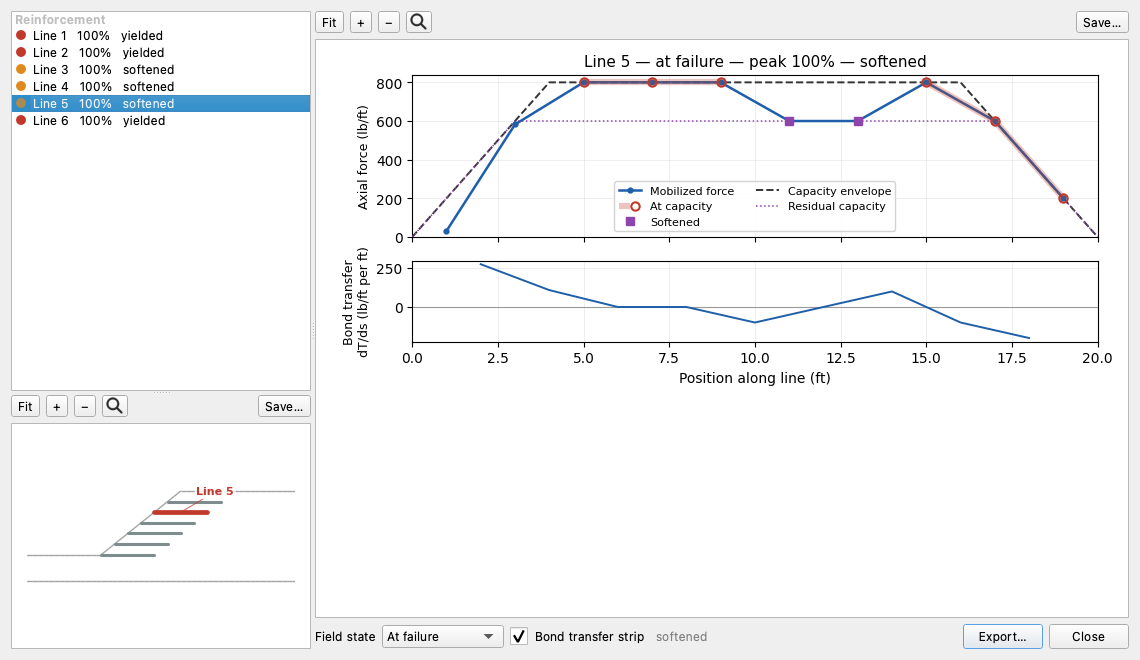
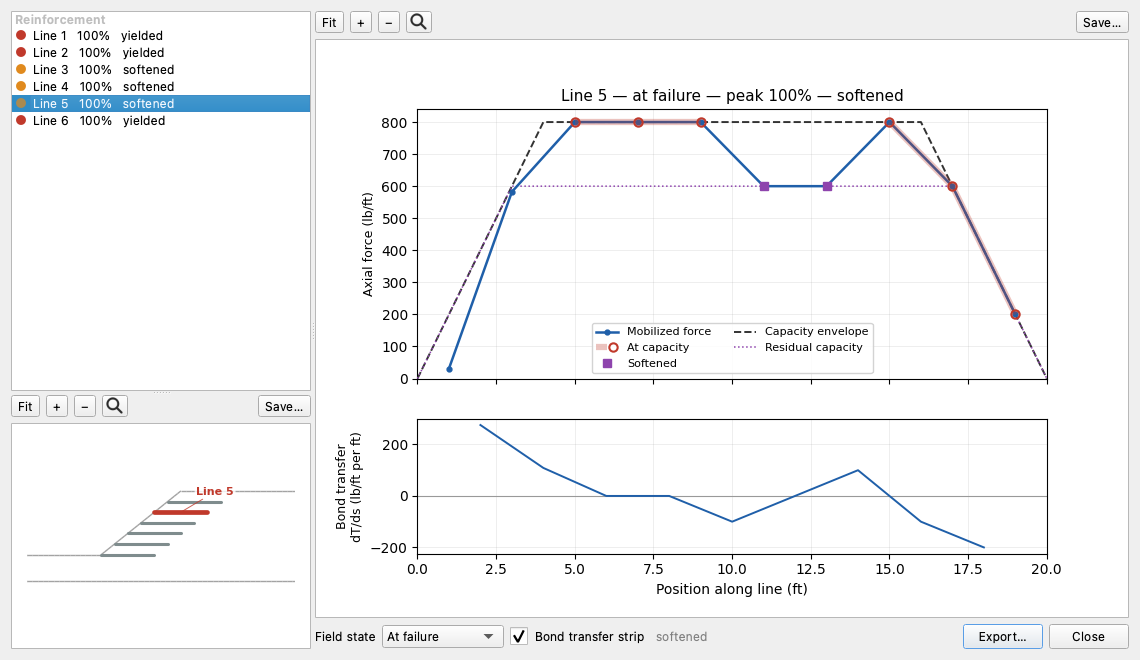
studio(1D details): the profile panels fill the window; the printed-strip height rule stays for the report page
plot_detail gains fit_height (default True: the height follows the width so a
report page spends a strip per member). The 1D Details dialog passes False —
its canvas already hands in a figure sized to the viewport, and the strip rule
was shrinking it back, leaving the bottom half of the window empty. FEM-2's
1D Details screenshot regenerated through the shipped pipeline.

Claude-Session: https://claude.ai/code/session_01XjjT2aBxw8gY7EFdpoUcpj

diff --git a/xslope/plot_fem_details.py b/xslope/plot_fem_details.py
@@ -267,7 +267,7 @@ def _title(profile):
 # reinforcement
 # --------------------------------------------------------------------------
 
-def plot_reinforcement_detail(profile, fig=None, show_bond=True):
+def plot_reinforcement_detail(profile, fig=None, show_bond=True, fit_height=True):
     """Draw the detail figure for one reinforcement line onto ``fig``.
 
     Upper panel: mobilized axial force along the bar, over the dashed capacity
@@ -437,7 +437,9 @@ def plot_reinforcement_detail(profile, fig=None, show_bond=True):
     else:
         ax.set_xlabel(_axis_label("Position along line", u.get("length")))
 
-    _fit_stacked_panels(fig, DETAIL_BANDS if has_bond else DETAIL_BANDS[:1])
+    if fit_height:
+
+        _fit_stacked_panels(fig, DETAIL_BANDS if has_bond else DETAIL_BANDS[:1])
     return fig
 
 
@@ -445,7 +447,7 @@ def plot_reinforcement_detail(profile, fig=None, show_bond=True):
 # piles
 # --------------------------------------------------------------------------
 
-def plot_pile_detail(profile, fig=None):
+def plot_pile_detail(profile, fig=None, fit_height=True):
     """Draw the detail figure for one pile onto ``fig``.
 
     Four panels sharing one depth axis, pile head at the top: lateral
@@ -736,8 +738,14 @@ def plot_member_map(fem_data, slope_data=None, kind="reinforcement",
     return fig
 
 
-def plot_detail(profile, fig=None, **kwargs):
-    """Dispatch to the figure builder for this profile's member kind."""
+def plot_detail(profile, fig=None, fit_height=True, **kwargs):
+    """Dispatch to the figure builder for this profile's member kind.
+
+    ``fit_height`` keeps the printed-strip rule (the figure's height follows its
+    width so a report page spends a strip on each member). A screen viewer that
+    hands in a figure already sized to its window passes ``False`` so the panels
+    fill the space they were given.
+    """
     if profile.get("kind") == "pile":
-        return plot_pile_detail(profile, fig=fig)
-    return plot_reinforcement_detail(profile, fig=fig, **kwargs)
+        return plot_pile_detail(profile, fig=fig, fit_height=fit_height)
+    return plot_reinforcement_detail(profile, fig=fig, fit_height=fit_height, **kwargs)

diff --git a/studio/fem_details_dialog.py b/studio/fem_details_dialog.py
@@ -324,10 +324,12 @@ class FemDetailsDialog(QDialog):
         show_bond = self.bond_chk.isChecked()
 
         def _draw(fig):
+            # The canvas hands in a figure sized to its viewport; the panels fill
+            # it. The printed-strip height rule is for the report page, not here.
             if prof["kind"] == "reinforcement":
-                plot_detail(prof, fig=fig, show_bond=show_bond)
+                plot_detail(prof, fig=fig, show_bond=show_bond, fit_height=False)
             else:
-                plot_detail(prof, fig=fig)
+                plot_detail(prof, fig=fig, fit_height=False)
 
         self.canvas.render_figure(_draw)
         # The verdict, with what it means one hover away: the panel is where a
